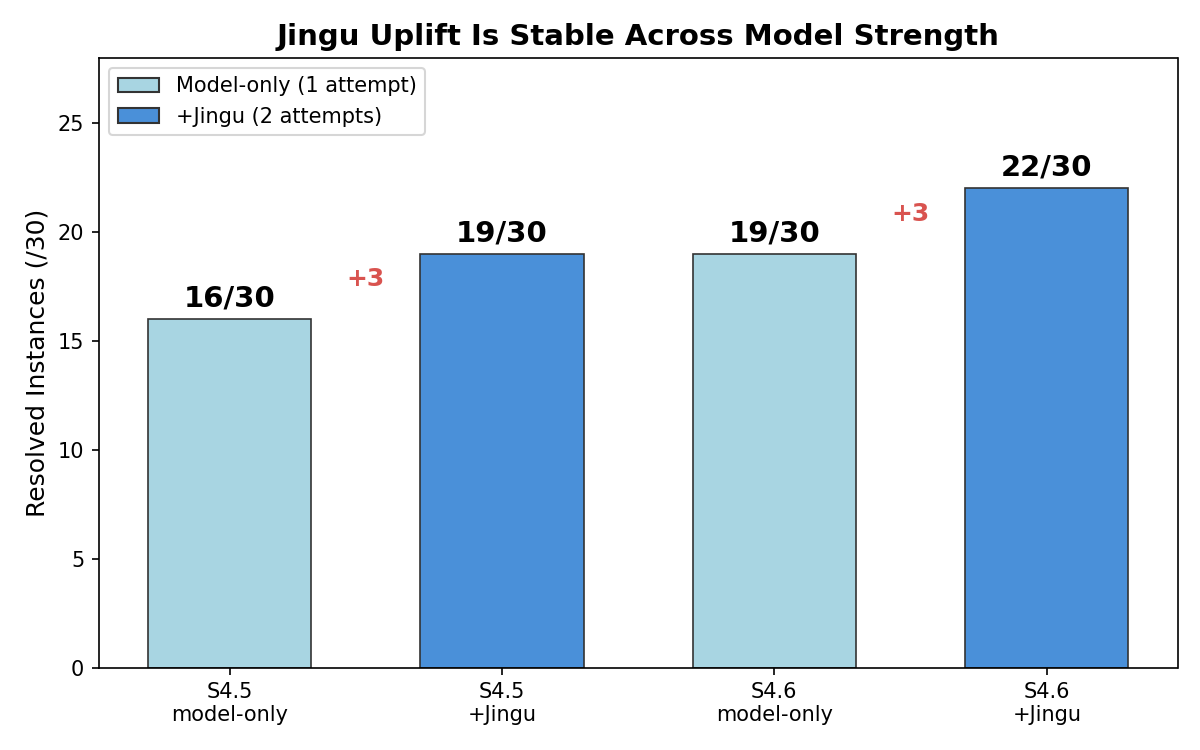
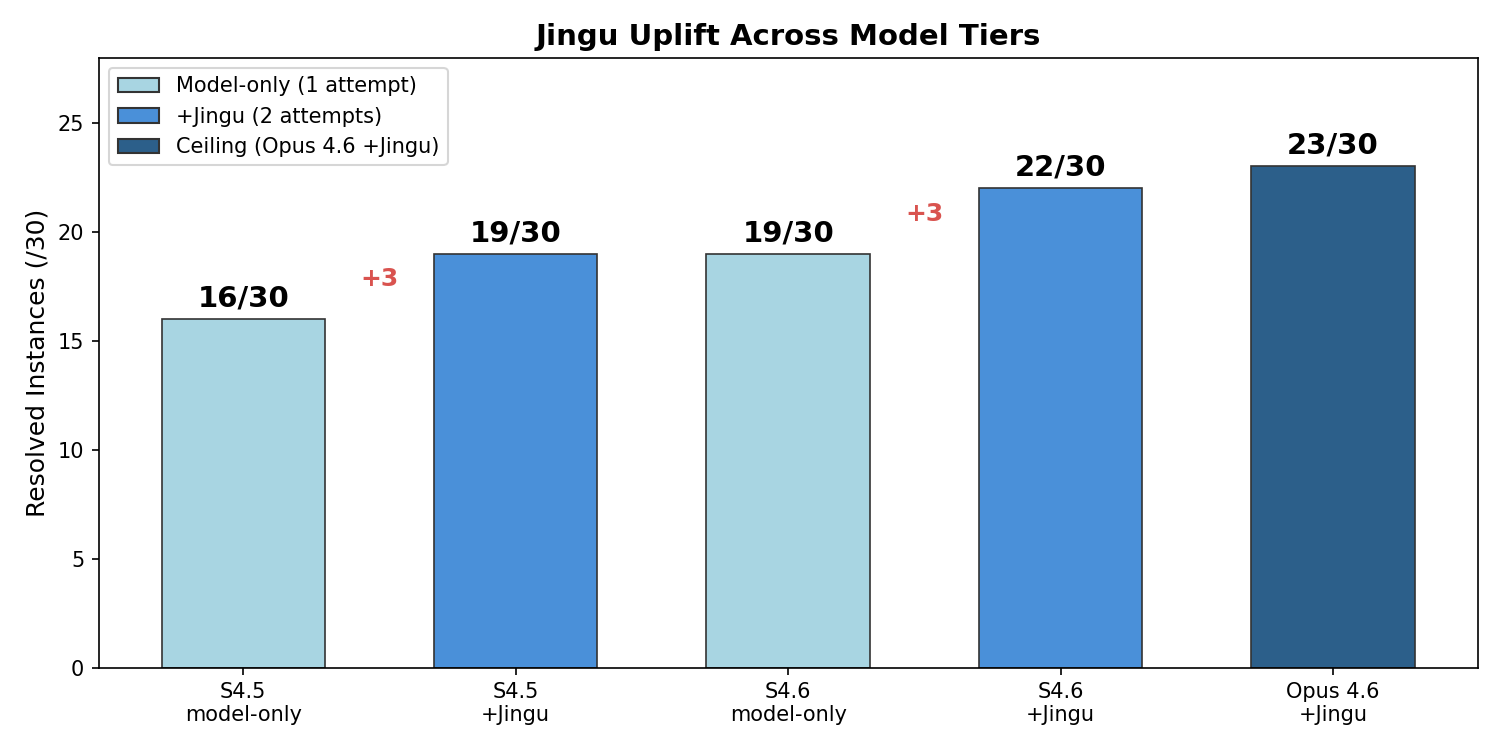
docs: final benchmark packaging — Opus 4.6 ceiling + methodology
- Add Opus 4.6 ceiling result (23/30, 76.7%) to BENCHMARK_RESULTS.md
- Add methodology section with config details, model strings, env specs
- Update four_cell_bar chart to include Opus 4.6 data point
- Add configs/best_config_v1.yaml (frozen benchmark config)
- Add Results section with charts to README.md
- All batches documented with commits for reproducibility

diff --git a/scripts/plot_results.py b/scripts/plot_results.py
@@ -12,11 +12,11 @@ OUT_DIR.mkdir(exist_ok=True)
 
 def plot_four_cell_bar():
     """Bar chart showing the 4-cell attribution matrix."""
-    labels = ['S4.5\nmodel-only', 'S4.5\n+Jingu', 'S4.6\nmodel-only', 'S4.6\n+Jingu']
-    values = [16, 19, 19, 22]
-    colors = ['#a8d5e2', '#4a90d9', '#a8d5e2', '#4a90d9']
+    labels = ['S4.5\nmodel-only', 'S4.5\n+Jingu', 'S4.6\nmodel-only', 'S4.6\n+Jingu', 'Opus 4.6\n+Jingu']
+    values = [16, 19, 19, 22, 23]
+    colors = ['#a8d5e2', '#4a90d9', '#a8d5e2', '#4a90d9', '#2c5f8a']
 
-    fig, ax = plt.subplots(figsize=(8, 5))
+    fig, ax = plt.subplots(figsize=(10, 5))
     bars = ax.bar(labels, values, color=colors, edgecolor='#333', linewidth=0.8, width=0.6)
 
     # Add value labels on bars
@@ -24,21 +24,22 @@ def plot_four_cell_bar():
         ax.text(bar.get_x() + bar.get_width()/2, bar.get_height() + 0.3,
                 f'{val}/30', ha='center', va='bottom', fontsize=14, fontweight='bold')
 
-    # Add +3 arrows
+    # Add +3 arrows between model-only and +Jingu pairs
     for i in range(0, 4, 2):
         ax.annotate('+3', xy=(i + 0.5, values[i] + 1.5),
                     fontsize=12, fontweight='bold', color='#d9534f',
                     ha='center')
 
     ax.set_ylabel('Resolved Instances (/30)', fontsize=12)
-    ax.set_title('Jingu Uplift Is Stable Across Model Strength', fontsize=14, fontweight='bold')
+    ax.set_title('Jingu Uplift Across Model Tiers', fontsize=14, fontweight='bold')
     ax.set_ylim(0, 28)
     ax.axhline(y=30, color='#ccc', linestyle='--', linewidth=0.5)
 
     # Legend
     from matplotlib.patches import Patch
     legend_elements = [Patch(facecolor='#a8d5e2', edgecolor='#333', label='Model-only (1 attempt)'),
-                       Patch(facecolor='#4a90d9', edgecolor='#333', label='+Jingu (2 attempts)')]
+                       Patch(facecolor='#4a90d9', edgecolor='#333', label='+Jingu (2 attempts)'),
+                       Patch(facecolor='#2c5f8a', edgecolor='#333', label='Ceiling (Opus 4.6 +Jingu)')]
     ax.legend(handles=legend_elements, loc='upper left', fontsize=10)
 
     plt.tight_layout()

diff --git a/BENCHMARK_RESULTS.md b/BENCHMARK_RESULTS.md
@@ -1,16 +1,24 @@
 # Jingu SWE-bench Benchmark Results
 
-## Core Finding
+## Final Results (v1.0)
 
-> **Jingu provides a stable +3 benchmark uplift across model strengths. Governance and model capability are additive, not substitutive.**
+> **Jingu delivers a consistent +3 uplift across model tiers (Sonnet 4.5 → 4.6). With Opus 4.6, Jingu pushes the ceiling to 23/30, showing additive gains with model scaling.**
 
-## Four-Cell Attribution Matrix
+### Four-Cell Attribution Matrix
 
 | | Model-only (1 attempt) | + Jingu (2 attempts) | Jingu Δ |
 |---|---|---|---|
 | **Claude Sonnet 4.5** | 16/30 (53.3%) | 19/30 (63.3%) | **+3** |
 | **Claude Sonnet 4.6** | 19/30 (63.3%) | 22/30 (73.3%) | **+3** |
 | **Model Δ** | **+3** | **+3** | |
+
+### Ceiling Run
+
+| Model | Config | Resolved | Note |
+|-------|--------|----------|------|
+| **Claude Opus 4.6** | +Jingu (2 attempts) | **23/30** (76.7%) | 29/30 completed; 1 env_failure (django-11490) |
+
+Opus 4.6 resolves 2 additional instances vs Sonnet 4.6 + Jingu: django-11206, django-11265.
 
 - Dataset: SWE-bench Verified (30 Django instances)
 - Config: best_config_v1 — EFR routing ON, all experimental features OFF
@@ -58,6 +66,25 @@ Jingu's value is **process control** (retry routing, feedback injection), not **
 
 ## Methodology
 
+### Configuration (best_config_v1)
+
+| Parameter | Value |
+|-----------|-------|
+| max_attempts | 2 (model-only: 1) |
+| EFR routing | ON (phase-aware retry with execution feedback) |
+| fix_hypothesis | OFF (0 behavioral uplift) |
+| direction_recon | OFF (0 behavioral uplift) |
+| candidate_selection | OFF (infeasible) |
+
+### Dataset & Environment
+
+- **Dataset**: SWE-bench Verified — 30 Django instances (from 231 Django total, 500 verified)
+- **Evaluation**: Official SWE-bench harness (`swebench==4.1.0`, `run_evaluation`)
+- **Base agent**: mini-swe-agent 2.1.0 (`ProgressTrackingAgent`)
+- **Runtime**: ECS EC2 (c5.9xlarge), privileged Docker-in-Docker
+- **Model access**: AWS Bedrock cross-region inference
+- **Model strings**: `bedrock/global.anthropic.claude-sonnet-4-5`, `bedrock/global.anthropic.claude-sonnet-4-6`, `bedrock/global.anthropic.claude-opus-4-6-v1`
+
 ### Batches (chronological)
 
 | Batch | Model | Config | Attempts | Resolved | Commit |
@@ -66,15 +93,21 @@ Jingu's value is **process control** (retry routing, feedback injection), not **
 | best-config-v1 | S4.5 | +Jingu | 2 | 19/30 | e30aefa |
 | ladder-sonnet46-modelonly-full30 | S4.6 | model-only | 1 | 19/30 | 436506e |
 | ladder-sonnet46-full30 | S4.6 | +Jingu | 2 | 22/30 | 436506e |
+| ceiling-opus46-full30 | Opus 4.6 | +Jingu | 2 | 23/30* | b6cfa92 |
+
+*29/30 completed; 1 env_failure on django-11490 (does not affect main conclusion).
 
 ### Reproducibility
+
 - All runs on same 30 Django instances from SWE-bench Verified
-- Same Docker image (jingu-swebench:latest) on same ECS infrastructure (c5.9xlarge)
-- Same mini-swe-agent 2.1.0 base agent
-- Model accessed via AWS Bedrock cross-region inference
+- Same Docker image (jingu-swebench:latest) on same ECS infrastructure
+- Same mini-swe-agent 2.1.0 base agent, same evaluation harness
 - Run artifacts (trajectories, predictions, eval results) stored in S3
+- Stability verified: S4.6 +Jingu subset (11 instances) reproduced identically across two runs
 
 ### Fair comparison note
+
 - "Model-only" = max_attempts=1 (single pass, no retry routing)
 - "+Jingu" = max_attempts=2 (Jingu governance active on retry)
 - Both use same base agent, same prompts, same evaluation harness
+- All reported numbers use `best_config_v1` configuration

diff --git a/README.md b/README.md
@@ -2,6 +2,23 @@
 
 SWE-bench harness for Jingu — runs LLM agents with governance gates on SWE-bench Verified instances, evaluates via official harness, tracks results over time.
 
+## Results
+
+**Jingu provides a stable +3 uplift across model tiers and pushes Opus 4.6 to 23/30 on SWE-bench Verified.**
+
+| | Model-only (1 att) | +Jingu (2 att) | Jingu Δ |
+|---|---|---|---|
+| **Sonnet 4.5** | 16/30 (53.3%) | 19/30 (63.3%) | **+3** |
+| **Sonnet 4.6** | 19/30 (63.3%) | 22/30 (73.3%) | **+3** |
+| **Opus 4.6** | — | 23/30 (76.7%) | ceiling |
+
+![Benchmark Results](charts/four_cell_bar.png)
+![Instance Attribution](charts/instance_attribution.png)
+
+See [BENCHMARK_RESULTS.md](BENCHMARK_RESULTS.md) for full methodology, instance-level attribution, and reproducibility details.
+
+Config: `configs/best_config_v1.yaml` — all reported numbers use this configuration.
+
 ## Quick Start
 
 All operations go through `ops.py`:
